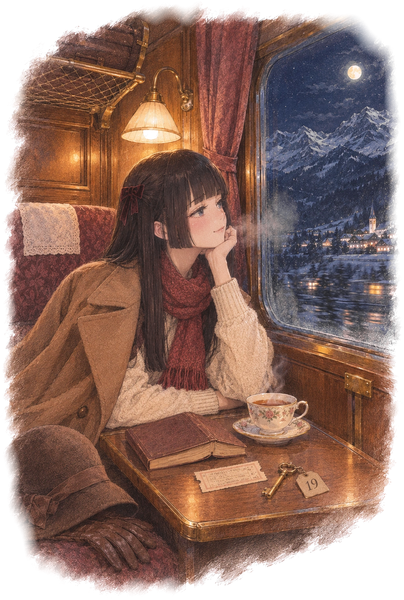
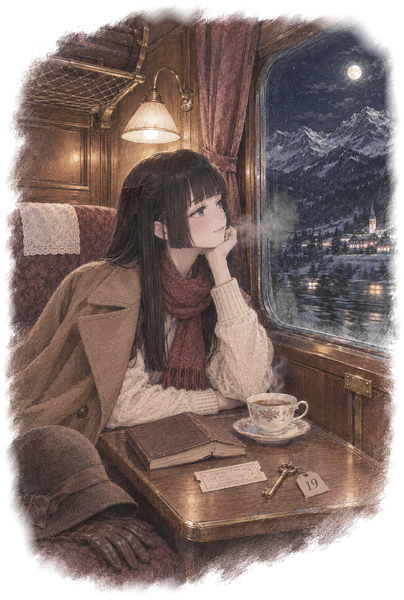
Night Service portrait: quieter colour
Claude-Session: https://claude.ai/code/session_01Gt7tu4gfoEos1TAjQ1a4QF

diff --git a/tools/import_portrait.py b/tools/import_portrait.py
@@ -48,20 +48,27 @@ def colour_to_alpha(rgb):
 OTHER = {
     "night-service": {"src": ROOT / "art" / "night-service" / "portrait.webp",
                       # its edge already fades out: no trim, a softer, squarer cut
-                      "trim": (0.0, 0.0, 0.0, 0.0), "feather": 0.07, "round": 5.0},
+                      "trim": (0.0, 0.0, 0.0, 0.0), "feather": 0.07, "round": 5.0,
+                      # its colour quietened, to sit on the paper like the rest of the desk
+                      "saturation": 0.58},
 }
 
 
 def main():
     global TRIM, FEATHER, ROUND, DST
+    saturation = 1.0
     if "--theme" in sys.argv:
         theme = sys.argv[sys.argv.index("--theme") + 1]
         o = OTHER[theme]
         src, TRIM, FEATHER, ROUND = o["src"], o["trim"], o["feather"], o["round"]
+        saturation = o.get("saturation", 1.0)
         DST = DST.with_name("portrait-%s.png" % theme)
     else:
         src = pathlib.Path(sys.argv[1]) if len(sys.argv) > 1 else SRC
     im = Image.open(src).convert("RGB")
+    if saturation != 1.0:
+        from PIL import ImageEnhance
+        im = ImageEnhance.Color(im).enhance(saturation)
     rgba = Image.fromarray(colour_to_alpha(np.asarray(im)), "RGBA")
     # trimmed to the drawing, with a hair of room
     box = rgba.getchannel("A").point(lambda v: 255 if v > 8 else 0).getbbox()
